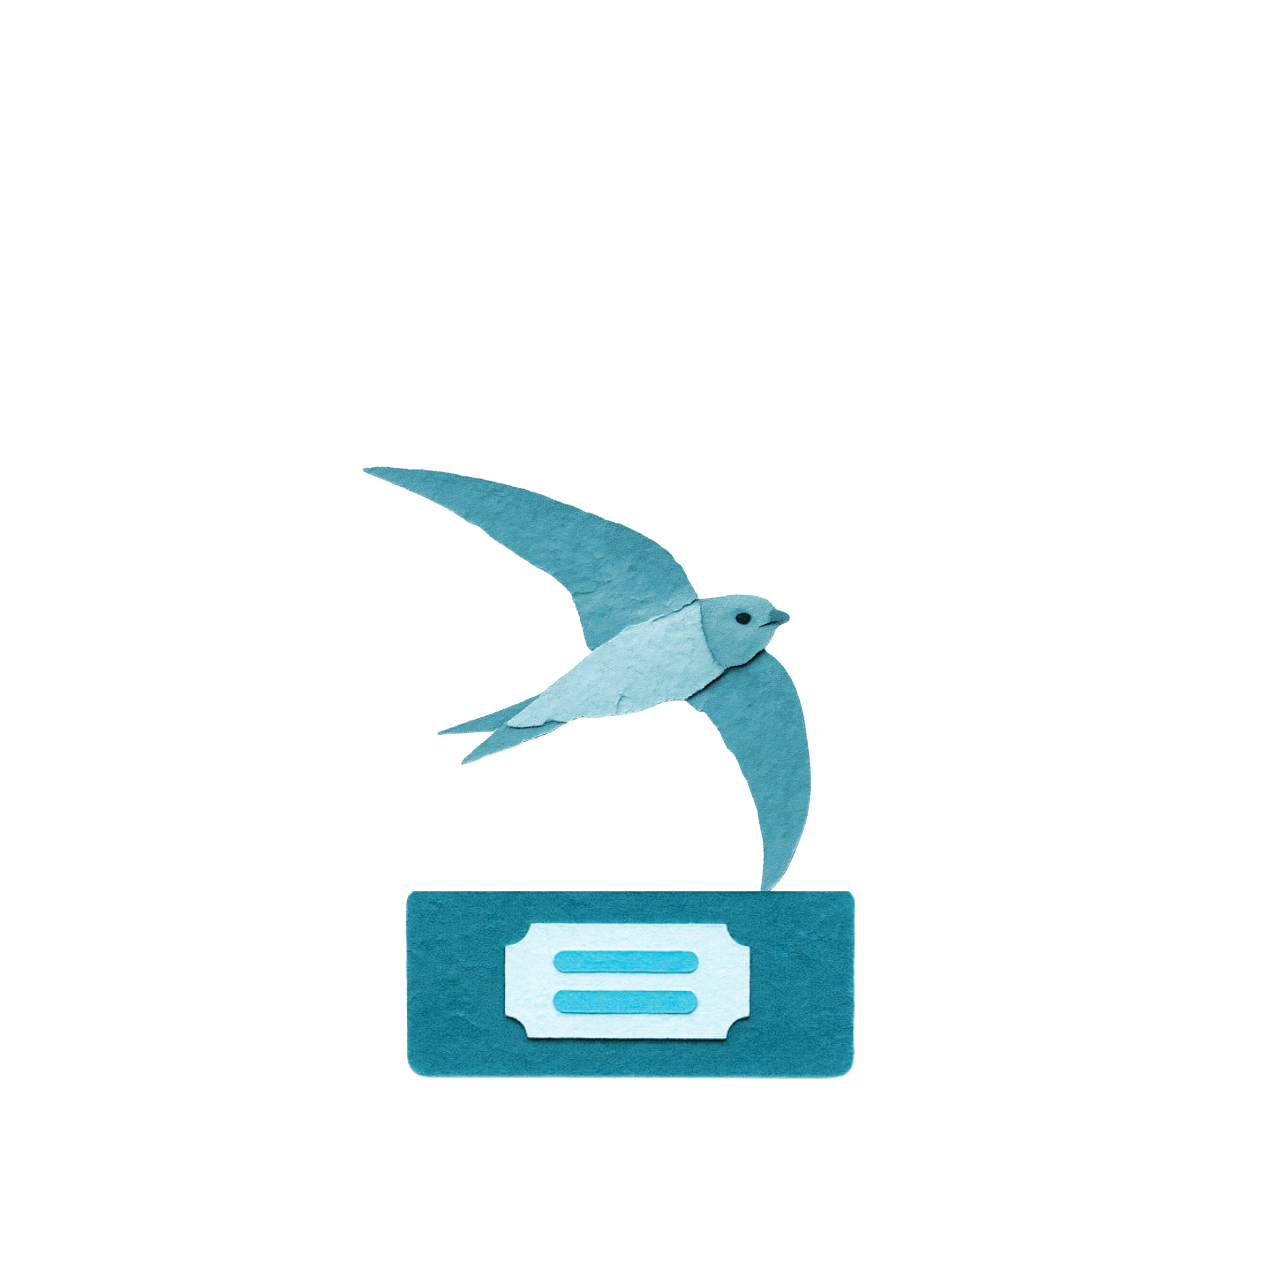
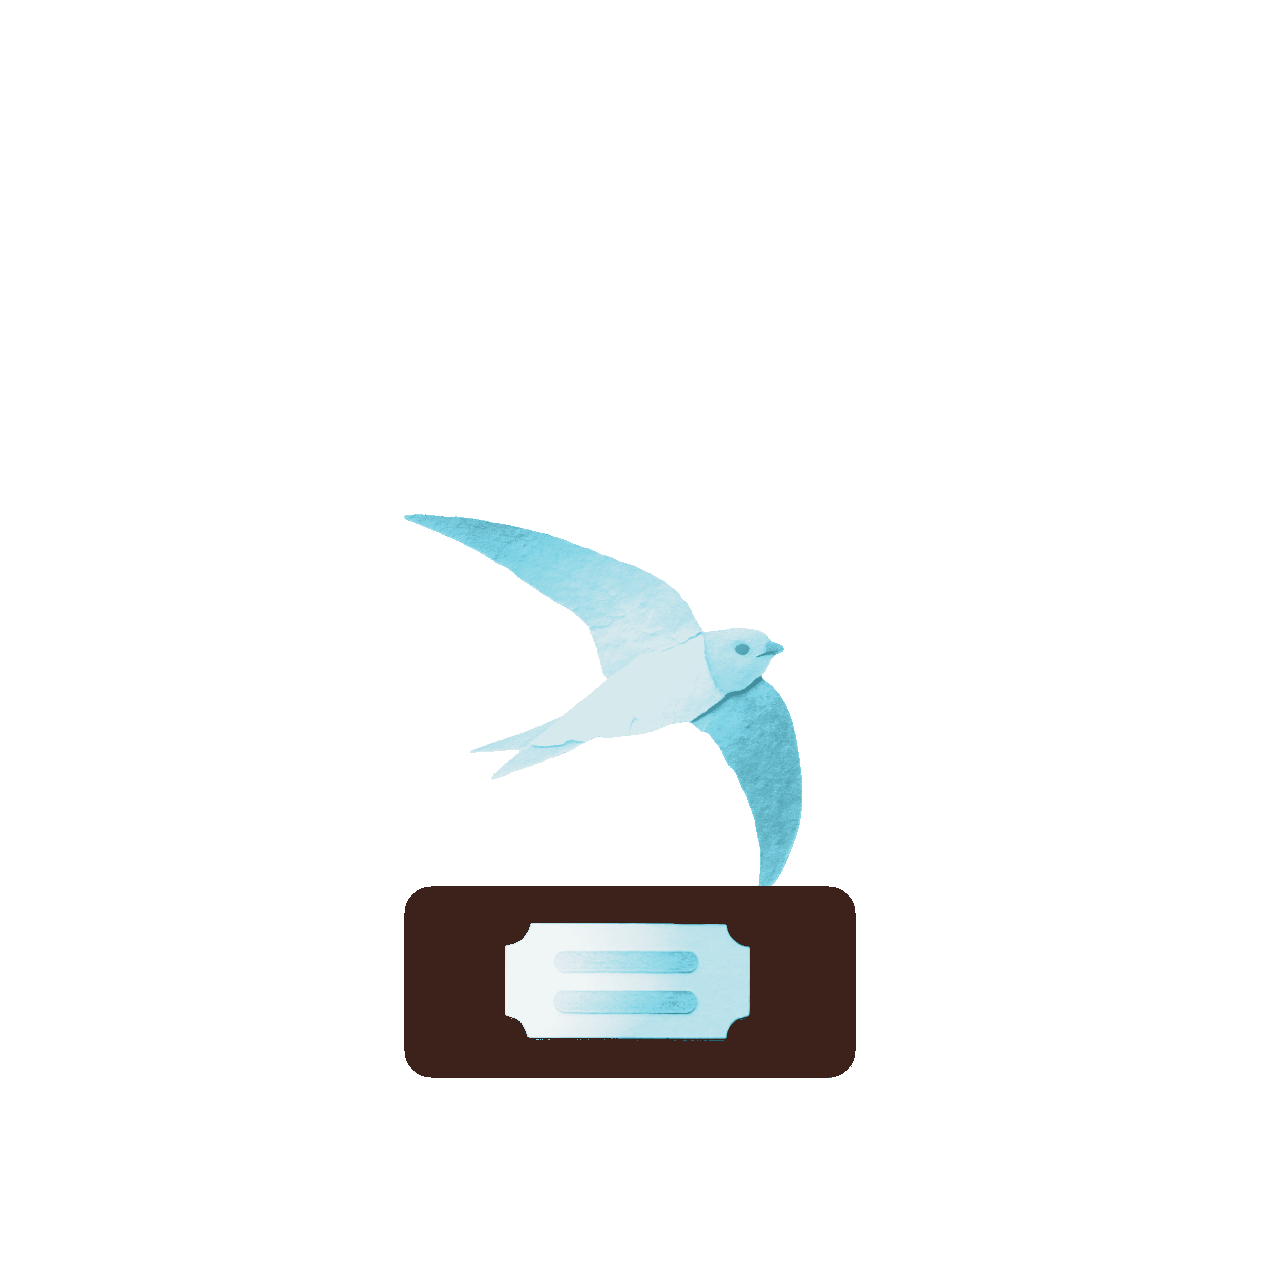
Refonte trophees batch 3 : Rallidae (rale) + Martinets. 5 tiers chacun, nouveau pipeline. Compression ~45%. Cache v307.

Changed region(s): [[0.2777, 0.3703, 0.6788, 0.8639]]

diff --git a/service-worker.js b/service-worker.js
@@ -3,7 +3,7 @@
 //   puis rafraichit en background. Prochain reload = nouvelle version.
 // - Requetes cross-origin (Firestore, iNaturalist, xeno-canto, Wikipedia, etc.) : reseau seul.
 // - Bump CACHE_VERSION quand on veut invalider volontairement.
-const CACHE_VERSION = 'v306-2026-09-17-trophees-plus-grands';
+const CACHE_VERSION = 'v307-2026-09-17-batch3-rale-martinet';
 const CACHE_NAME = 'lmb-' + CACHE_VERSION;
 
 self.addEventListener('install', (e) => {
